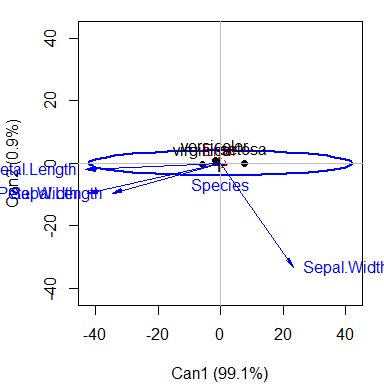
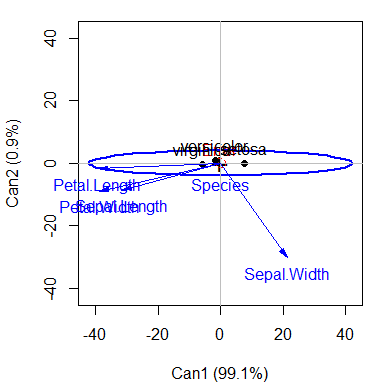
add extend arg to ellipse.axes

diff --git a/README.md b/README.md
@@ -298,12 +298,10 @@ variables.
 
 ``` r
 # HE plot in canonical space
-heplot(iris.can)
+heplot(iris.can, var.pos = 1, scale = 40)
 ```
 
 <img src="man/figures/README-iris-can-1.png" width="60%" />
-
-    #> Vector scale factor set to  43.914
 
 ### Covariance ellipses
 

diff --git a/NEWS.md b/NEWS.md
@@ -2,6 +2,7 @@
 
 * Fixed bug in `ellipse.axes()` re center/centre
 * `ellipse.axes()` gains a `type` argument to draw lines or arrows
+* `ellipse.axes()` gains a `extend` argument to extend/shrink the axes
 
 ## Version 1.7.1 (2024-11-14)
 
